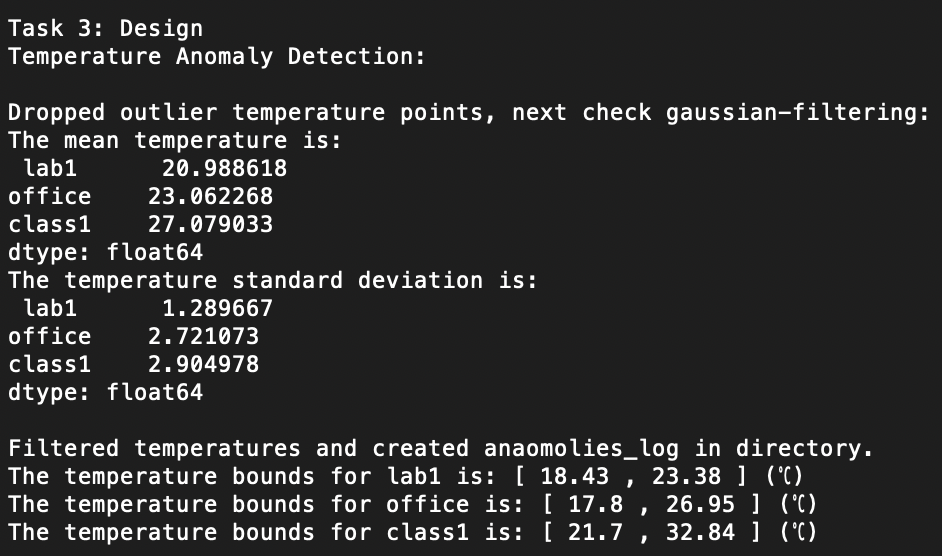
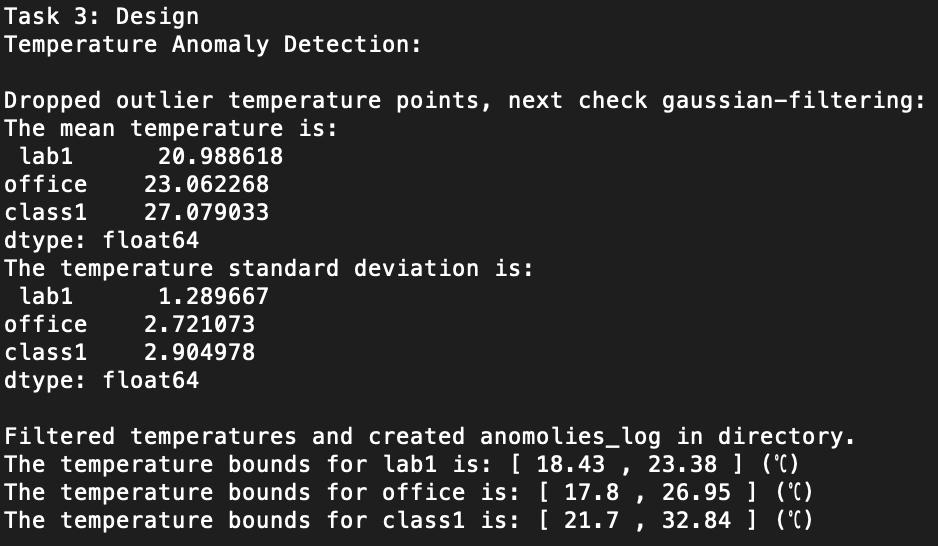
Add Command

Changed region(s): [[0.0, 0.1557, 0.9893, 0.7473], [0.0, 0.7784, 0.9275, 0.9963], [0.0, 0.0, 0.4638, 0.1245]]

diff --git a/design.py b/design.py
@@ -75,7 +75,7 @@ if __name__ == "__main__":
 
     
     # Prints relative stats (ie. upper/lower bounds, mean)
-    print("\nFiltered temperatures and created anaomolies_log in directory.")
+    print("\nFiltered temperatures and created anomolies_log in directory.")
     print("The temperature bounds for lab1 is: [", np.round(np.nanmin(filterdf["lab1"]),2), ",", 
         np.round(np.nanmax(filterdf["lab1"]),2), "] (℃)")
     print("The temperature bounds for office is: [", np.round(np.nanmin(filterdf["office"]),2), ",", 
